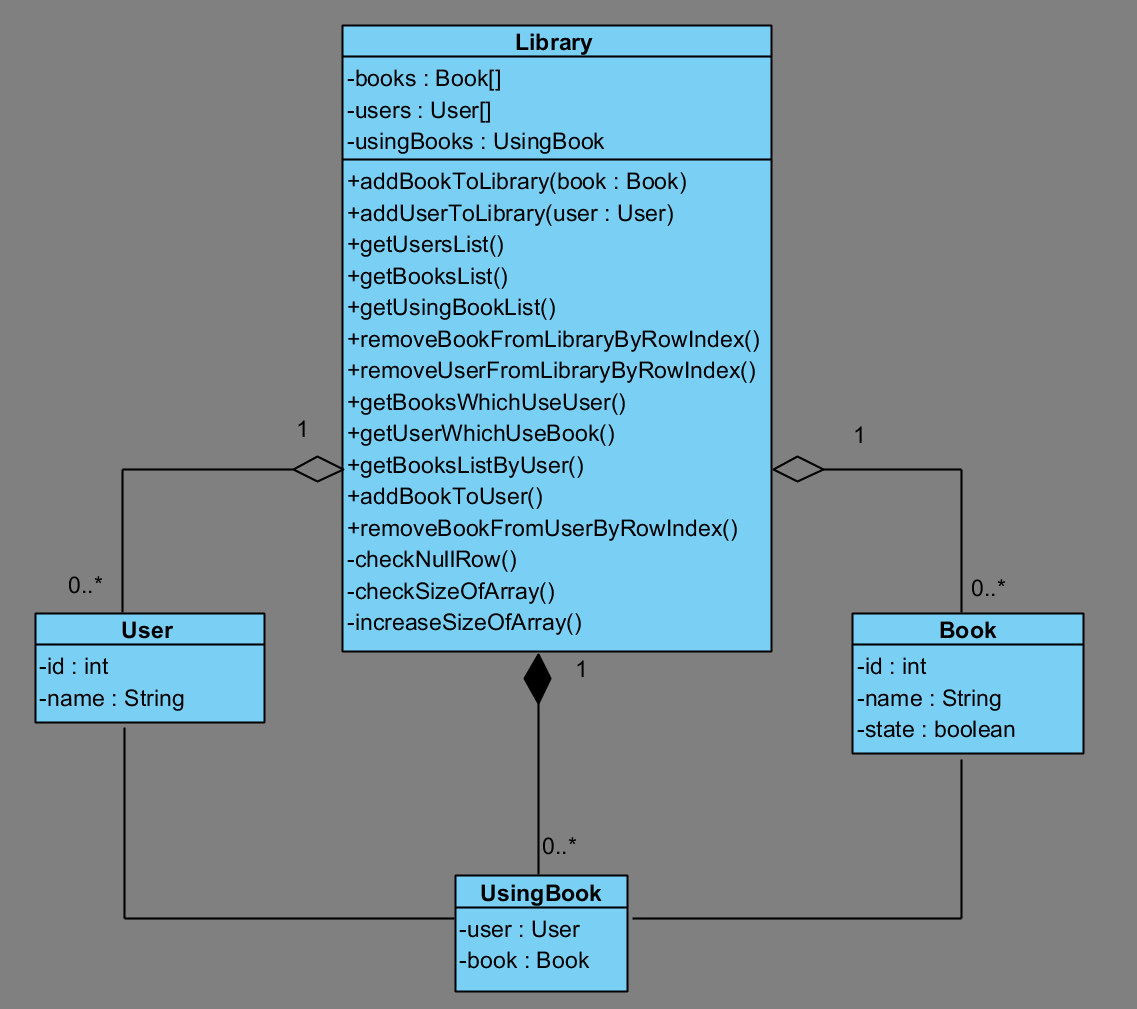
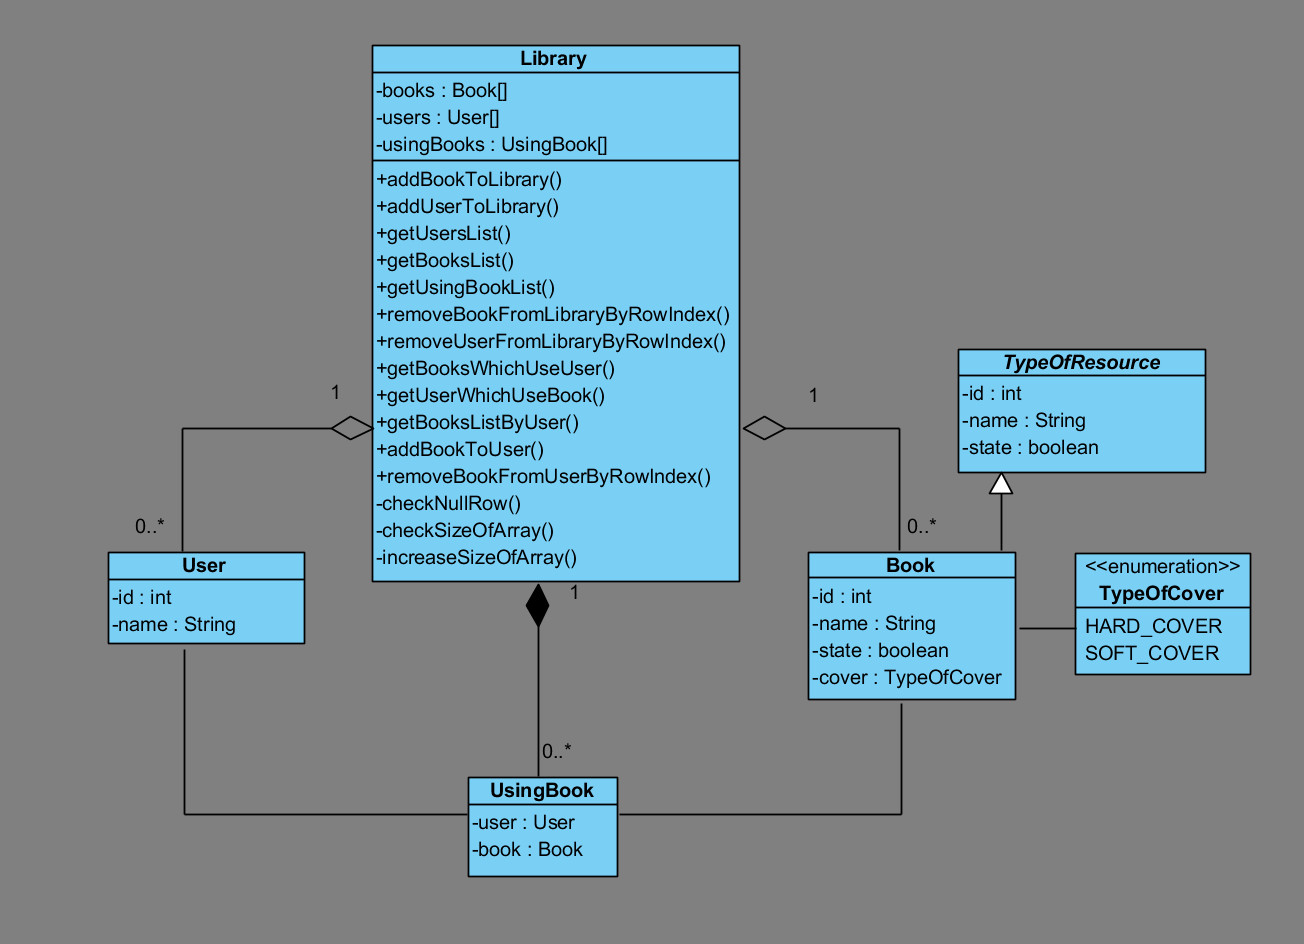
some refactoring

Changed region(s): [[0.0923, 0.0, 0.985, 0.768], [0.1231, 0.768, 0.8619, 0.9831], [0.0308, 0.5222, 0.2463, 0.7373]]

diff --git a/Zanyatie3/Task4/Library.java b/Zanyatie3/Task4/Library.java
@@ -34,8 +34,8 @@ public class Library {
 
     public void addBookToLibrary(Book book) {
         int count = 0;
-        for (Book book1 : books) {
-            if (book1 != null) {
+        for (Book aBook : books) {
+            if (aBook != null) {
                 count++;
             }
         }
@@ -52,8 +52,8 @@ public class Library {
 
     public void addUserToLibrary(User user) {
         int count = 0;
-        for (User user1 : users) {
-            if (user1 != null) {
+        for (User anUser : users) {
+            if (anUser != null) {
                 count++;
             }
         }
@@ -62,24 +62,6 @@ public class Library {
         }
         int index = checkNullRow(users);
         users[index] = user;
-    }
-
-    private <T> void checkSizeOfArray(T[] array) {
-        int count = 0;
-        for (Object obj : array) {
-            if (obj != null) {
-                count++;
-            }
-        }
-        if (array.length - count < 3) {
-            if (array == users) {
-                increaseSizeOfArray(users);
-            } else if (array == books) {
-                increaseSizeOfArray(books);
-            } else if (array == usingBooks) {
-                increaseSizeOfArray(usingBooks);
-            }
-        }
     }
 
     public void removeUserFromLibraryByRowIndex(int index) {
@@ -158,6 +140,24 @@ public class Library {
             }
         }
         return count;
+    }
+
+    private <T> void checkSizeOfArray(T[] array) {
+        int count = 0;
+        for (Object obj : array) {
+            if (obj != null) {
+                count++;
+            }
+        }
+        if (array.length - count < 3) {
+            if (array == users) {
+                increaseSizeOfArray(users);
+            } else if (array == books) {
+                increaseSizeOfArray(books);
+            } else if (array == usingBooks) {
+                increaseSizeOfArray(usingBooks);
+            }
+        }
     }
 
     private <T> void increaseSizeOfArray(T[] array) {

diff --git a/Zanyatie3/Task4/TestProgram.java b/Zanyatie3/Task4/TestProgram.java
@@ -1,7 +1,11 @@
 package Zanyatie3.Task4;
 
+
 public class TestProgram {
+
+
     public static void main(String[] args) {
+
 
         // Блок №1 инициализации объектов и начальных данных
         Library library = new Library();
@@ -15,9 +19,10 @@ public class TestProgram {
         userArray[2] = new User(3, "Nick");
 
         //создаем 3 книги // поле state для задания f
+
         booksArray[0] = new Book(1, "Java", true);
         booksArray[1] = new Book(2, "Hibernate", true);
-        booksArray[2] = new Book(3, "Oracle",true);
+        booksArray[2] = new Book(3, "Oracle", true);
 
         //сетим все данные в библиотеку
         library.setBooks(booksArray);
@@ -35,8 +40,8 @@ public class TestProgram {
         //Блок №2
         // Пункт задания: a
         System.out.println("Пункт задания: a - добавить книгу в библиотеку");
-        library.addBookToLibrary(new Book(4,"Threads",true));
-        library.addBookToLibrary(new Book(5,"Martin Fowler", true));
+        library.addBookToLibrary(new Book(4, "Threads", true));
+        library.addBookToLibrary(new Book(5, "Martin Fowler", true));
         library.getBooksList();
 
         System.out.println("удалить книгу из библиотеки");
@@ -45,7 +50,7 @@ public class TestProgram {
 
         // Пункт задания: b
         System.out.println("Пункт задания: b - добавить пользователя в библиотеку");
-        library.addUserToLibrary(new User(4,"Dima"));
+        library.addUserToLibrary(new User(4, "Dima"));
         library.getUsersList();
 
         System.out.println("удалить пользователя из библиотеки");

diff --git a/Zanyatie3/Task4/Book.java b/Zanyatie3/Task4/Book.java
@@ -2,16 +2,26 @@ package Zanyatie3.Task4;
 
 import java.util.Objects;
 
-public class Book extends TypeOfResourse {
+public class Book extends TypeOfResource {
 
 	private int id;
 	private String name;
 	private boolean state;
+	private TypeOfCover cover;
 
-    public Book(int id, String name, boolean state) {
-        this.id = id;
-        this.name = name;
-        this.state = state;
+	public Book(int id, String name, boolean state) {
+		super(id, name, state);
+		this.id = id;
+		this.name = name;
+		this.state = state;
+	}
+
+    public TypeOfCover getCover() {
+        return cover;
+    }
+
+    public void setCover(TypeOfCover cover) {
+        this.cover = cover;
     }
 
     public int getId() {
@@ -38,16 +48,17 @@ public class Book extends TypeOfResourse {
 		this.state = state;
 	}
 
-	@Override
-	public String toString() {
-		return "Book{" +
-				"id=" + id +
-				", name='" + name + '\'' +
-				", state=" + state +
-				'}';
-	}
+    @Override
+    public String toString() {
+        return "Book{" +
+                "id=" + id +
+                ", name='" + name + '\'' +
+                ", state=" + state +
+                ", cover=" + cover +
+                '}';
+    }
 
-	@Override
+    @Override
 	public boolean equals(Object o) {
 		if (this == o) return true;
 		if (o == null || getClass() != o.getClass()) return false;

diff --git a/Zanyatie3/Task4/TypeOfResource.java b/Zanyatie3/Task4/TypeOfResource.java
@@ -1,0 +1,14 @@
+package Zanyatie3.Task4;
+
+public abstract class TypeOfResource {
+
+    private int id;
+    private String name;
+    private boolean state;
+
+    public TypeOfResource(int id, String name, boolean state) {
+        this.id = id;
+        this.name = name;
+        this.state = state;
+    }
+}

diff --git a/Zanyatie3/Task4/TypeOfCover.java b/Zanyatie3/Task4/TypeOfCover.java
@@ -1,0 +1,5 @@
+package Zanyatie3.Task4;
+
+public enum TypeOfCover {
+   HARD_COVER, SOFT_COVER;
+}
